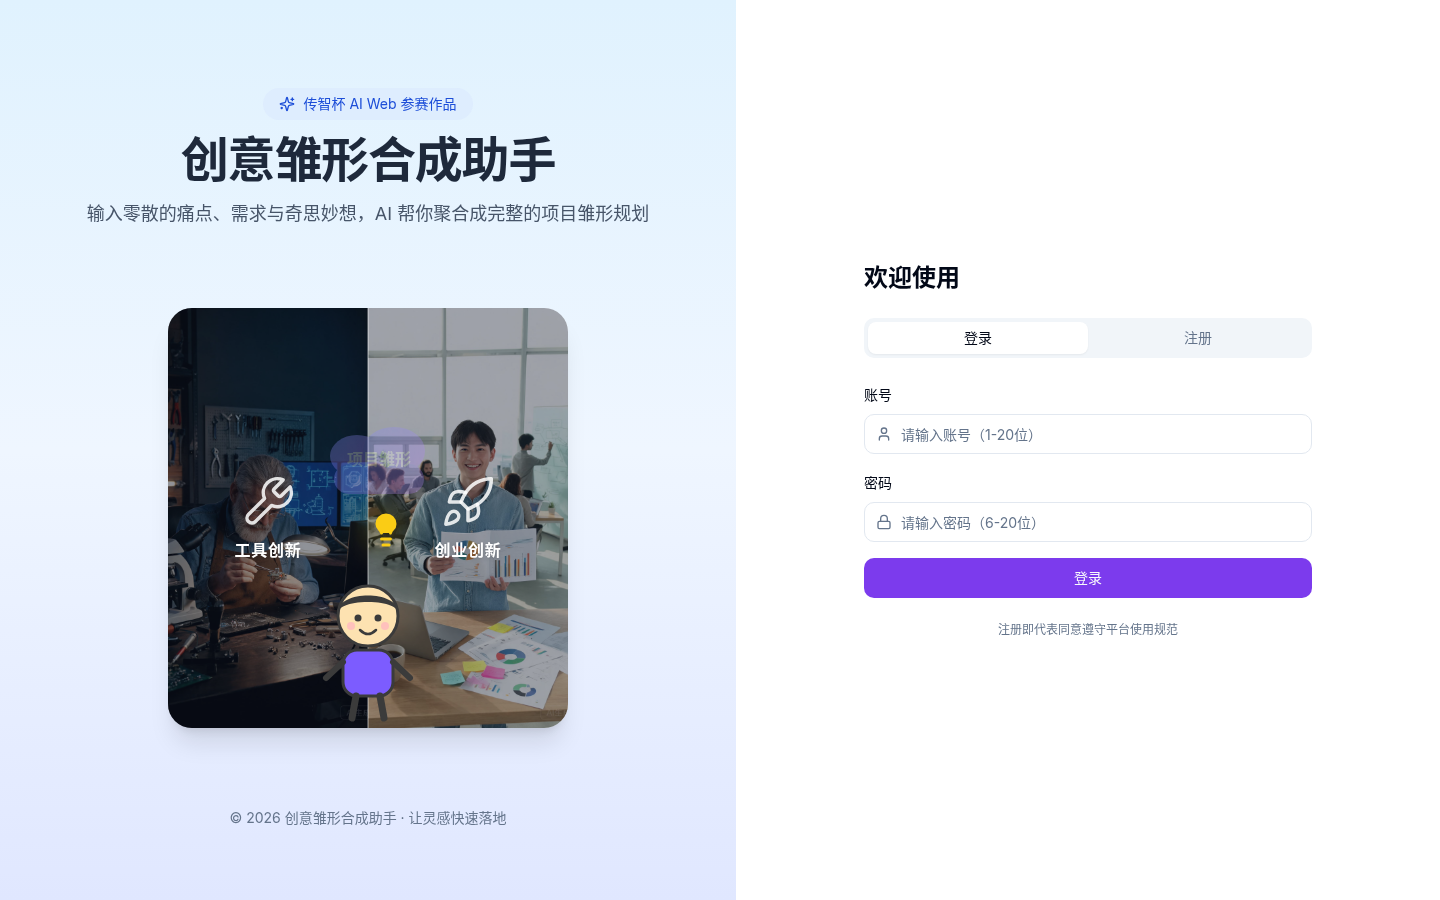
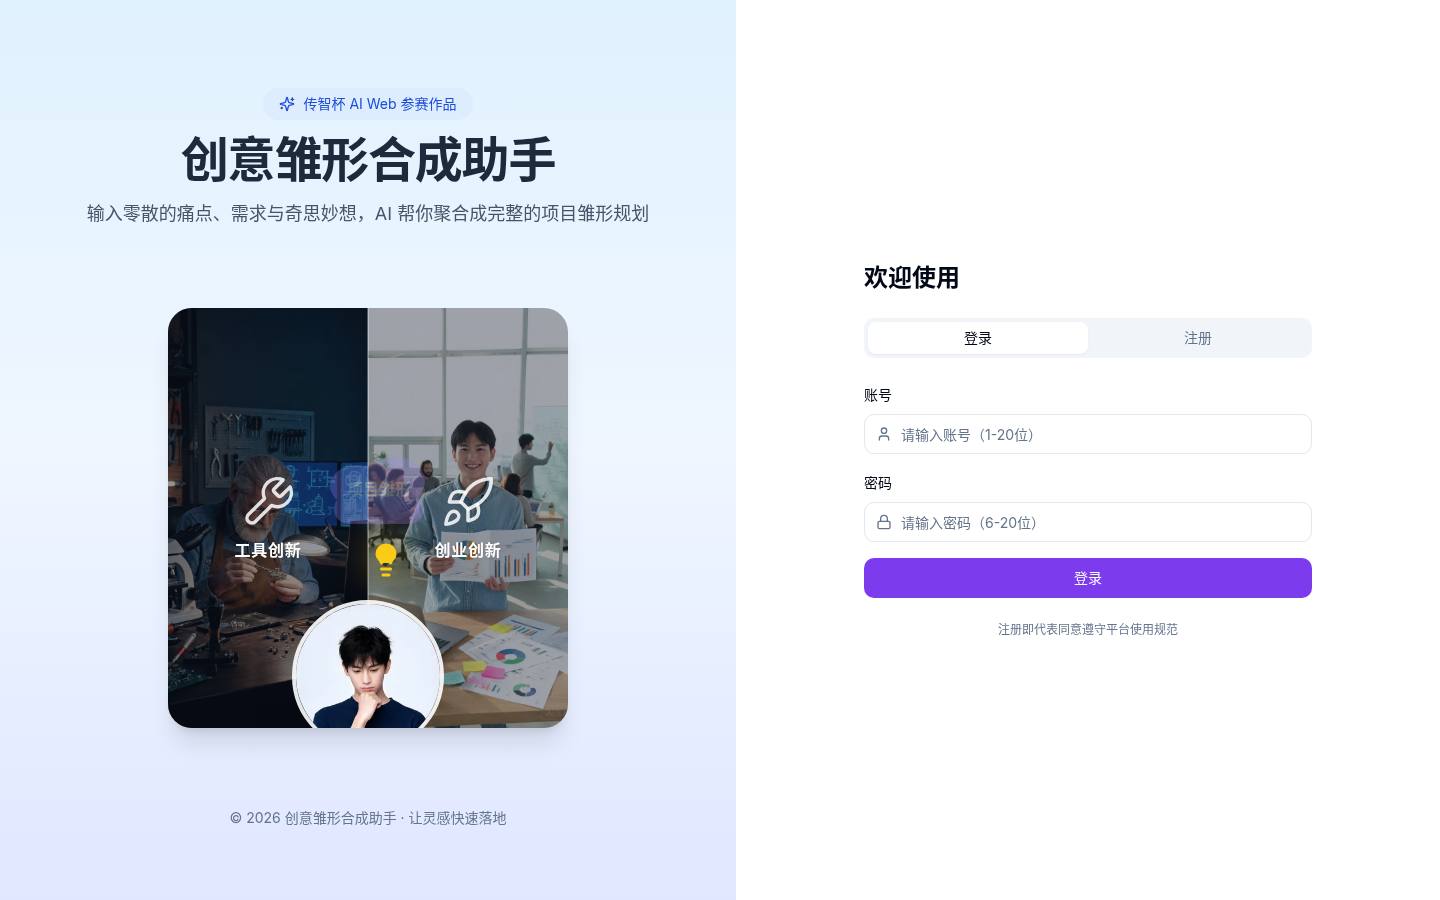
feat: update workspace

Changed region(s): [[0.1875, 0.4667, 0.3125, 0.8089]]

diff --git a/src/components/comic-character.tsx b/src/components/comic-character.tsx
@@ -1,5 +1,6 @@
 "use client";
 
+import Image from "next/image";
 import { motion } from "framer-motion";
 import { Lightbulb, Wrench, Rocket } from "lucide-react";
 
@@ -211,39 +212,21 @@ export function ComicCharacter() {
         </motion.div>
       </div>
 
-      {/* 漫画小人（SVG），站在背景分割线中间 */}
-      <svg
-        width="160"
-        height="150"
-        viewBox="0 0 160 150"
-        fill="none"
-        xmlns="http://www.w3.org/2000/svg"
-        className="relative z-10 mt-1"
+      {/* 思考中的人物形象（真实照片），站在左右分半背景的分割线中间 */}
+      <motion.div
+        className="relative z-10 -mb-7 h-[152px] w-[152px] overflow-hidden rounded-full border-4 border-white/90 shadow-2xl"
+        animate={{ y: [0, -4, 0] }}
+        transition={{ duration: 3.2, repeat: Infinity, ease: "easeInOut" }}
       >
-        {/* 头 */}
-        <circle cx="80" cy="38" r="30" fill="#FDE2B1" stroke="#3B3B3B" strokeWidth="3" />
-        {/* 头发 */}
-        <path
-          d="M50 34 C50 12 110 12 110 34 C110 30 100 24 80 24 C60 24 50 30 50 34 Z"
-          fill="#3B3B3B"
+        <Image
+          src="/images/character.jpg"
+          alt="正在思考创意的年轻人"
+          width={152}
+          height={152}
+          priority
+          className="h-full w-full object-cover object-top"
         />
-        {/* 眼睛 */}
-        <circle cx="70" cy="40" r="3.5" fill="#3B3B3B" />
-        <circle cx="90" cy="40" r="3.5" fill="#3B3B3B" />
-        {/* 腮红 */}
-        <circle cx="63" cy="48" r="4" fill="#FFB3C1" opacity="0.7" />
-        <circle cx="97" cy="48" r="4" fill="#FFB3C1" opacity="0.7" />
-        {/* 微笑 */}
-        <path d="M72 52 Q80 60 88 52" stroke="#3B3B3B" strokeWidth="2.5" fill="none" strokeLinecap="round" />
-        {/* 身体 */}
-        <rect x="55" y="72" width="50" height="46" rx="14" fill="#7C5CFF" stroke="#3B3B3B" strokeWidth="3" />
-        {/* 手臂 */}
-        <path d="M55 84 L38 100" stroke="#3B3B3B" strokeWidth="6" strokeLinecap="round" />
-        <path d="M105 84 L122 100" stroke="#3B3B3B" strokeWidth="6" strokeLinecap="round" />
-        {/* 腿 */}
-        <path d="M68 118 L64 140" stroke="#3B3B3B" strokeWidth="7" strokeLinecap="round" />
-        <path d="M92 118 L96 140" stroke="#3B3B3B" strokeWidth="7" strokeLinecap="round" />
-      </svg>
+      </motion.div>
     </div>
   );
 }
